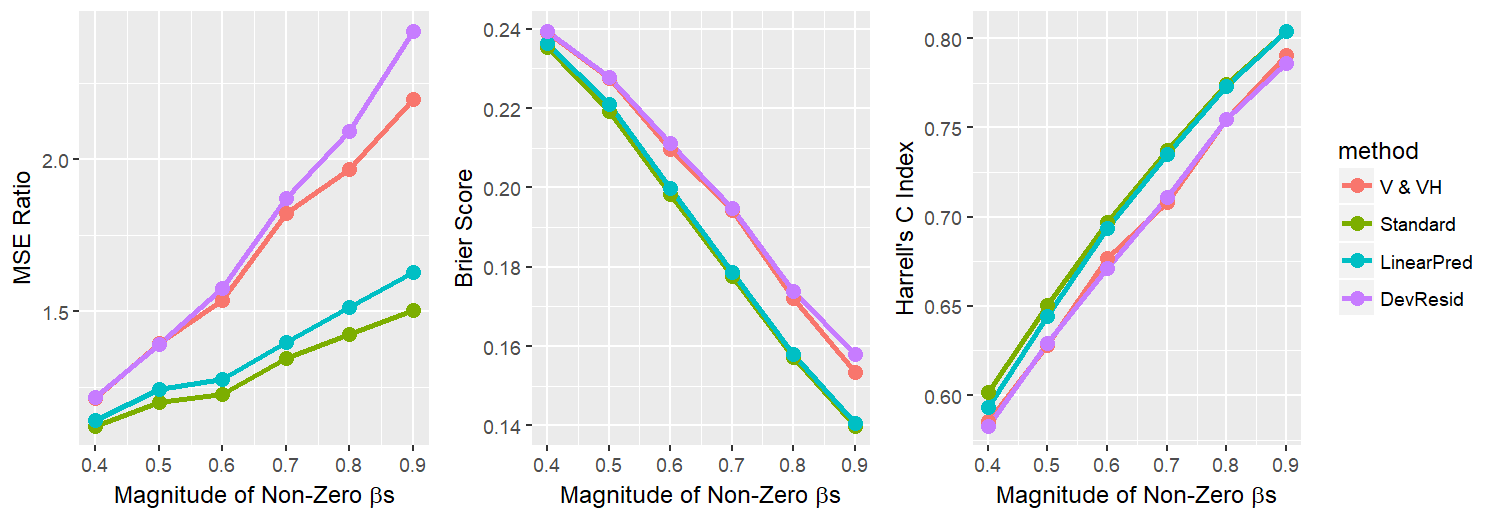
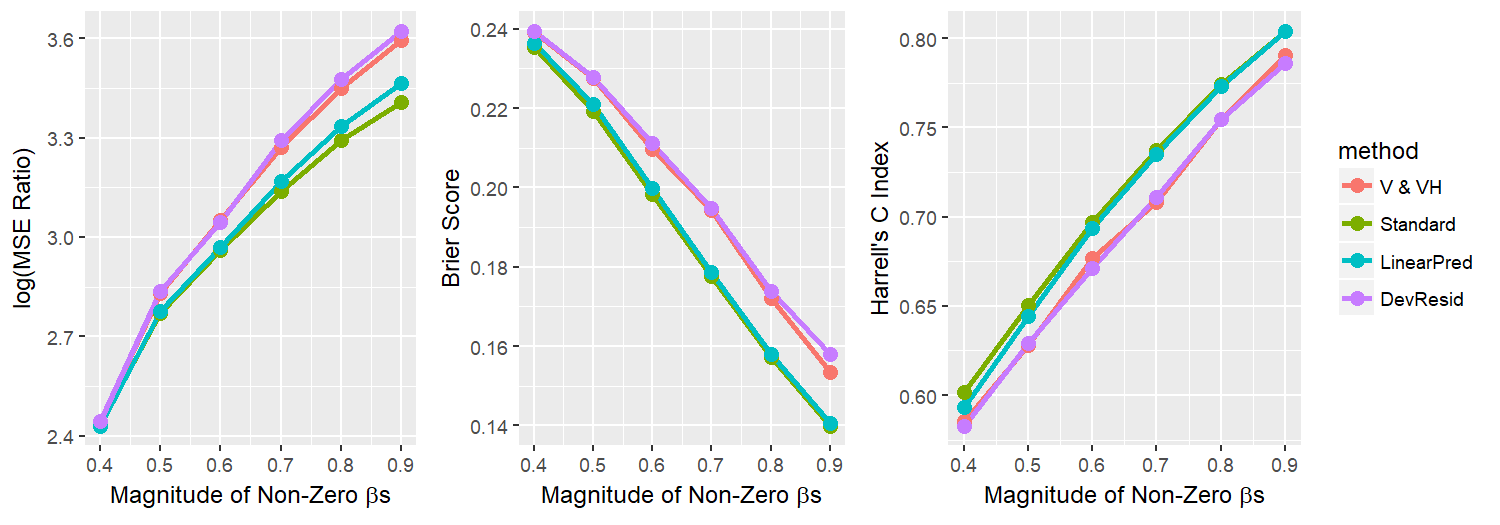
oracle MSE and CV-AUC

diff --git a/main.tex b/main.tex
@@ -141,7 +141,13 @@ We first studied the accuracy of the models via several in-sample and out-of-sam
 \begin{equation}
 E(\hat{\beta}(\lambda) - \beta)^2
 \end{equation}
-For each generated data set, the $\lambda$ that has the minimal MSE is chosen as the optimal $\lambda$, which we denote by $\lambda^{opt}$. Then the models selected by the cross validation methods with $\lambda^{cv}$ would be compared to the model that corresponds to $\lambda^{opt}$. We would take the ratio between $MSE$ of $\hat{\beta}(\lambda^{cv})$ and $MSE$ of $\hat{\beta}(\lambda^{optimal})$ for each cross-validation selected $\lambda^{cv}$ in each generated data set. The results would be averaged over N replications. 
+For each generated data set, an oracle model would be fitted using Cox regression only upon variables that are set as non-zero in the data generating process. The resulted estimates would be denoted by $\hat{\beta}^{oracle}$. Then the models selected by the cross validation methods with $\lambda^{cv}$ would be compared to the oracle model via 
+\begin{equation}
+log\left\{ \frac{MSE(\hat{\beta}(\lambda^{cv}))}{MSE(\hat{\beta}^{oracle})} \right\}
+\end{equation}
+for each cross-validation selected $\lambda^{cv}$ in each generated data set. The results would be averaged over N replications. 
+
+%For each generated data set, the $\lambda$ that has the minimal MSE is chosen as the optimal $\lambda$, which we denote by $\lambda^{opt}$. Then the models selected by the cross validation methods with $\lambda^{cv}$ would be compared to the model that corresponds to $\lambda^{opt}$. We would take the ratio between $MSE$ of $\hat{\beta}(\lambda^{cv})$ and $MSE$ of $\hat{\beta}(\lambda^{optimal})$ for each cross-validation selected $\lambda^{cv}$ in each generated data set. The results would be averaged over N replications. 
 
 \par We also measure the predictive accuracy via Brier score, which can be interpreted as the mean squared error of the prediction \citep{VanHouwelingen2011}. Suppose $\hat{S}(t_0|\lambda,x)$ is the prediction of survival probability of an individual beyond time $t_0$ with covariate $x$ based on model $\hat{\beta}(\lambda)$. Suppose the actual observation is defined as $y = \mathbb{1}(\left\{ t > t_{0}\right\})$, which is an indicator of whether the event is observed after $t_0$ or not. Then the Brier score is defined to be:
 \begin{equation}
@@ -177,27 +183,27 @@ The simulation experiments were first conducted when the signal in the data was 
 \centering
 \begin{tabular}[t]{cccccccccc}
 \toprule
- n& p& $\#$ Non-Zero & Signal & Method & $\lambda$ & MSE Ratio &Brier Score & Kullback Leibler & C Index\\
+ n& p& $\#$ Non-Zero & Signal & Method & $\lambda$ & log(MSE Ratio) &Brier Score & Kullback Leibler & C Index\\
 \midrule
-150 & 50 & 5 & Weak & V$\&$ VH  & 0.095 (0.028) & 1.323 (0.443) & 0.242 (0.013) & 0.678 (0.029) & 0.617 (0.034) \\
-      &    &   &     & Standard  & 0.087 (0.030) & 1.323 (0.431) & 0.242 (0.013) & 0.678 (0.029) & 0.618 (0.032) \\
-      &    &   &     & LinearPred  & 0.088 (0.025) & 1.285 (0.419) & 0.241 (0.013) & 0.677 (0.028) & 0.620 (0.029) \\
-      &    &   &     & DevResid  & 0.132 (0.032) & 1.697 (0.716) & 0.248 (0.014) & 0.689 (0.030) & 0.601 (0.044) \\
+150 & 50 & 5 & 0.3 & V VH  & 0.095 (0.028) & 1.457 (0.954) & 0.242 (0.013) & 0.678 (0.029) & 0.617 (0.034) \\
+    &    &   &     & Standard  & 0.087 (0.030) & 1.459 (0.922) & 0.242 (0.013) & 0.678 (0.029) & 0.618 (0.032) \\
+    &    &   &     & LinearPred  & 0.088 (0.025) & 1.433 (0.927) & 0.241 (0.013) & 0.677 (0.028) & 0.620 (0.029) \\
+    &    &   &     & DevResid  & 0.132 (0.032) & 1.676 (1.019) & 0.248 (0.014) & 0.689 (0.030) & 0.601 (0.044) \\
 \addlinespace
-150 & 50 & 5 & Strong & V$\&$VH  & 0.070 (0.011) & 1.373 (0.362) & 0.177 (0.012) & 0.527 (0.030) & 0.750 (0.014) \\
-    &    &   &     & Standard  & 0.066 (0.012) & 1.313 (0.358) & 0.176 (0.012) & 0.526 (0.029) & 0.749 (0.014) \\
-    &    &   &     & LinearPred  & 0.067 (0.011) & 1.319 (0.335) & 0.176 (0.012) & 0.526 (0.030) & 0.750 (0.014) \\
-    &    &   &     & DevResid  & 0.110 (0.012) & 2.569 (0.826) & 0.187 (0.014) & 0.554 (0.033) & 0.750 (0.018) \\
+150 & 50 & 5 & 0.6 & V VH  & 0.070 (0.011) & 1.733 (0.922) & 0.177 (0.012) & 0.527 (0.030) & 0.750 (0.014) \\
+    &    &   &     & Standard  & 0.066 (0.012) & 1.688 (0.909) & 0.176 (0.012) & 0.526 (0.029) & 0.749 (0.014) \\
+    &    &   &     & LinearPred  & 0.067 (0.011) & 1.695 (0.925) & 0.176 (0.012) & 0.526 (0.030) & 0.750 (0.014) \\
+    &    &   &     & DevResid  & 0.110 (0.012) & 2.339 (0.868) & 0.187 (0.014) & 0.554 (0.033) & 0.750 (0.018) \\
 \addlinespace
-300 & 10000 & 20 & Weak & V$\&$VH  & 0.139 (0.021) & 1.353 (0.192) & 0.244 (0.015) & 0.681 (0.032) & 0.612 (0.051) \\
-      &    &   &     & Standard  & 0.105 (0.027) & 1.206 (0.150) & 0.228 (0.021) & 0.646 (0.045) & 0.639 (0.050) \\
-      &    &   &     & LinearPred  & 0.107 (0.026) & 1.218 (0.159) & 0.229 (0.021) & 0.648 (0.045) & 0.638 (0.049) \\
-      &    &   &     & DevResid  & 0.139 (0.027) & 1.341 (0.198) & 0.243 (0.018) & 0.678 (0.038) & 0.610 (0.058) \\
+300 & 10000 & 20 & low & V VH  & 0.139 (0.021) & 3.463 (0.438) & 0.244 (0.015) & 0.681 (0.032) & 0.612 (0.051) \\
+    &    &   &     & Standard  & 0.105 (0.027) & 3.350 (0.458) & 0.228 (0.021) & 0.646 (0.045) & 0.639 (0.05) \\
+    &    &   &     & LinearPred  & 0.107 (0.026) & 3.360 (0.462) & 0.229 (0.021) & 0.648 (0.045) & 0.638 (0.049) \\
+    &    &   &     & DevResid  & 0.139 (0.027) & 3.454 (0.447) & 0.243 (0.018) & 0.678 (0.038) & 0.610 (0.058) \\
 \addlinespace
-500 & 10000 & 20 & Strong & V$\&$VH  & 0.072 (0.005) & 1.837 (0.184) & 0.162 (0.015) & 0.495 (0.036) & 0.784 (0.021) \\
-      &    &   &     & Standard  & 0.056 (0.005) & 1.368 (0.146) & 0.153 (0.011) & 0.465 (0.029) & 0.782 (0.017) \\
-      &    &   &     & LinearPred  & 0.057 (0.005) & 1.410 (0.150) & 0.153 (0.011) & 0.466 (0.029) & 0.783 (0.017) \\
-      &    &   &     & DevResid  & 0.076 (0.005) & 1.985 (0.227) & 0.167 (0.015) & 0.508 (0.035) & 0.782 (0.022) \\
+500 & 10000 & 20 & strong & V VH  & 0.072 (0.005) & 3.469 (0.480) & 0.162 (0.015) & 0.495 (0.036) & 0.784 (0.021) \\
+    &    &   &     & Standard  & 0.056 (0.005) & 3.174 (0.504) & 0.153 (0.011) & 0.465 (0.029) & 0.782 (0.017) \\
+    &    &   &     & LinearPred  & 0.057 (0.005) & 3.204 (0.498) & 0.153 (0.011) & 0.466 (0.029) & 0.783 (0.017) \\
+    &    &   &     & DevResid  & 0.076 (0.005) & 3.545 (0.467) & 0.167 (0.015) & 0.508 (0.035) & 0.782 (0.022) \\
 \bottomrule
 \end{tabular}
 \end{table}
@@ -231,6 +237,13 @@ The simulation experiments were first conducted when the signal in the data was 
 
   %\subsection {Simulations on Deviance Residuals and Baseline Hazard Estimations}
 
+ \subsection {Cross-Validated C Index}
+
+\begin{figure}[h]
+    \centering
+		\includegraphics[height= 15cm ]{./figures/figure_auc.png}
+    \caption{Cross-Validated AUC}
+\end{figure}	
 
 \section{Application to Real Data}
 
@@ -270,36 +283,36 @@ Dev Resid & 0.0992 & -2.3104 && 0.1110 & -2.1987\\ \hline
 
 % Discussion on Deviance Residual
 
-\par While the Deviance Residual approach has a reasonable performance in scenarios where dimension is high, it tends to act more conservatively than all the other three approaches in general. As is noted by Therneau et al, the sums of squared martingale residuals and deviance residuals do not necessary reflect how good the model fit is \citep{Therneau2000modeling}. The difficulty of estimating the baseline hazard seems to play an important role. A series of simulations were thus designed to study how baseline hazard estimation affects the deviance residuals' performance as a measurement for model fit. 
+%\par While the Deviance Residual approach has a reasonable performance in scenarios where dimension is high, it tends to act more conservatively than all the other three approaches in general. As is noted by Therneau et al, the sums of squared martingale residuals and deviance residuals do not necessary reflect how good the model fit is \citep{Therneau2000modeling}. The difficulty of estimating the baseline hazard seems to play an important role. A series of simulations were thus designed to study how baseline hazard estimation affects the deviance residuals' performance as a measurement for model fit. 
 
-\par In the following simulation studies, the defined optimal $\lambda$ and the $\lambda$ selected by the Linear Predictor approach were used as benchmarks. Various sample sizes and dimensions were varied. The survival outcomes were generated both from exponential distribution and Weibull distribution. Six different approaches were compared in terms of baseline hazard estimation and their impact on sums of squared deviance residuals. Two non-parametric approaches, Kalbfleisch and Prentices' estimator and Breslow's estimator, were used first for estimating the cumulative hazard baseline \citep{Kalbfleisch2011} \citep{breslow1972}.  As is presented in column 3 and column 5 in Table 2, the sum of squared deviance residuals computed based on both approaches are all very conservative compared to the optimal $\lambda$. Their performance is extremely bad when n is large and p is small. 
+%\par In the following simulation studies, the defined optimal $\lambda$ and the $\lambda$ selected by the Linear Predictor approach were used as benchmarks. Various sample sizes and dimensions were varied. The survival outcomes were generated both from exponential distribution and Weibull distribution. Six different approaches were compared in terms of baseline hazard estimation and their impact on sums of squared deviance residuals. Two non-parametric approaches, Kalbfleisch and Prentices' estimator and Breslow's estimator, were used first for estimating the cumulative hazard baseline \citep{Kalbfleisch2011} \citep{breslow1972}.  As is presented in column 3 and column 5 in Table 2, the sum of squared deviance residuals computed based on both approaches are all very conservative compared to the optimal $\lambda$. Their performance is extremely bad when n is large and p is small. 
 
-\par Since both of the non-parameteric estimations seemed to perform well at early time points but poorly later, a weighted approach was then applied to emphasize earlier time points. Weights are assigned proportional to number of subjects at risk, making earlier time points weighted more than later time points. Results of these two approahces are presented in column 4 and 6 in Table 2. The attempt to improve the non-parameteric estimations via weighting does not seem to improve the selection too much. 
+%\par Since both of the non-parameteric estimations seemed to perform well at early time points but poorly later, a weighted approach was then applied to emphasize earlier time points. Weights are assigned proportional to number of subjects at risk, making earlier time points weighted more than later time points. Results of these two approahces are presented in column 4 and 6 in Table 2. The attempt to improve the non-parameteric estimations via weighting does not seem to improve the selection too much. 
 
-\par In the next step,  the non-parametric baseline hazard estimation was replaced by the exact baseline hazard that was used to generate the outcome. Results were listed in the seventh column in Table 2. When the baseline was known, the performance of sum of squared deviance residuals actually performed really close to the optimal $\lambda$. This simulation suggests that when the baseline hazard was accurately estimated, then the sum of squared deviance residuals gave really good measures for the model fit.
+%\par In the next step,  the non-parametric baseline hazard estimation was replaced by the exact baseline hazard that was used to generate the outcome. Results were listed in the seventh column in Table 2. When the baseline was known, the performance of sum of squared deviance residuals actually performed really close to the optimal $\lambda$. This simulation suggests that when the baseline hazard was accurately estimated, then the sum of squared deviance residuals gave really good measures for the model fit.
 
-\par In the last step, we replaced the non-parametric baseline hazard estimation with a parametric approach, where we assume the baseline hazard to follow an exponential distribution. We derived the estimation for baseline hazard by maximum likelihood approach conditioned on covariates: $\hat{\lambda}_{0} = \frac{\sum d_{i}}{\sum t_{i}e^{\eta_{i}}}$. The results are listed in the eighth column in Table 2. When this estimation was used for data that were generated from exponential distribution, its performance was as well as when the exact baseline was specified. When it was fitted to data that were generated from the Weibull distribution, that is when the model is misspecified, then its performance was even worse than the non-parametric approaches.
+%\par In the last step, we replaced the non-parametric baseline hazard estimation with a parametric approach, where we assume the baseline hazard to follow an exponential distribution. We derived the estimation for baseline hazard by maximum likelihood approach conditioned on covariates: $\hat{\lambda}_{0} = \frac{\sum d_{i}}{\sum t_{i}e^{\eta_{i}}}$. The results are listed in the eighth column in Table 2. When this estimation was used for data that were generated from exponential distribution, its performance was as well as when the exact baseline was specified. When it was fitted to data that were generated from the Weibull distribution, that is when the model is misspecified, then its performance was even worse than the non-parametric approaches.
 
-\par Hence, getting accurate estimation of the baseline hazard is crucial to whether or not the sum of squared deviance residuals can be a good measurement for model fit.
+%\par Hence, getting accurate estimation of the baseline hazard is crucial to whether or not the sum of squared deviance residuals can be a good measurement for model fit.
 
-\begin{table}[h]
-	\small
-	\caption{Average of Selected $\lambda$ with Different Baseline Estimation for Deviance Residuals}
-	\centering
-	\begin{tabular}{lllllllll}
-	\hline
-	\\[-0.75em]
-    & Optimal & Linear Pred & KP & KP & Breslow & Breslow & Exact & Exp\\ 
-    &  & & & weighted & & weighted & & \\ \cline{2 - 9} 
-	\textbf{True Baseline: $Exponential(1)$} &&&&&&&&\\
-	n = 100, p = 10, non-zero $\beta$: 2 & 0.0461 & 0.0665 & 0.1986 & 0.1970 & 0.1908 & 0.1975 & 0.0540 & 0.0539 \\
-	n = 100, p = 100, non-zero $\beta$: 20 &0.0555 & 0.1841 & 0.2359 & 0.2201 & 0.2146 & 0.2244 & 0.0805 & 0.0985 \\
-	n = 100, p = 1000, non-zero $\beta$: 20 & 0.0268 & 0.0505 & 0.0948 & 0.0798 & 0.0867 & 0.0809 & 0.0288 & 0.0270 \\
-	\textbf{True Baseline:} $Weibull$ &&&&&&&& \\
- 	n = 100, p = 10, non-zero $\beta$: 2 & 0.0476 & 0.0710 & 0.2004 & 0.1969 & 0.1907 & 0.1907 & N/A & 0.2330 \\ 
-	\hline
-\end{tabular}
-\end{table}
+%\begin{table}[h]
+%	\small
+%	\caption{Average of Selected $\lambda$ with Different Baseline Estimation for Deviance Residuals}
+	%\centering
+	%\begin{tabular}{lllllllll}
+	%\hline
+	%\\[-0.75em]
+    %& Optimal & Linear Pred & KP & KP & Breslow & Breslow & Exact & Exp\\ 
+    %&  & & & weighted & & weighted & & \\ \cline{2 - 9} 
+	%\textbf{True Baseline: $Exponential(1)$} &&&&&&&&\\
+	%n = 100, p = 10, non-zero $\beta$: 2 & 0.0461 & 0.0665 & 0.1986 & 0.1970 & 0.1908 & 0.1975 & 0.0540 & 0.0539 \\
+	%n = 100, p = 100, non-zero $\beta$: 20 &0.0555 & 0.1841 & 0.2359 & 0.2201 & 0.2146 & 0.2244 & 0.0805 & 0.0985 \\
+	%n = 100, p = 1000, non-zero $\beta$: 20 & 0.0268 & 0.0505 & 0.0948 & 0.0798 & 0.0867 & 0.0809 & 0.0288 & 0.0270 \\
+	%\textbf{True Baseline:} $Weibull$ &&&&&&&& \\
+ 	%n = 100, p = 10, non-zero $\beta$: 2 & 0.0476 & 0.0710 & 0.2004 & 0.1969 & 0.1907 & 0.1907 & N/A & 0.2330 \\ 
+	%\hline
+%\end{tabular}
+%\end{table}
 
 
 \section{Appendix}
